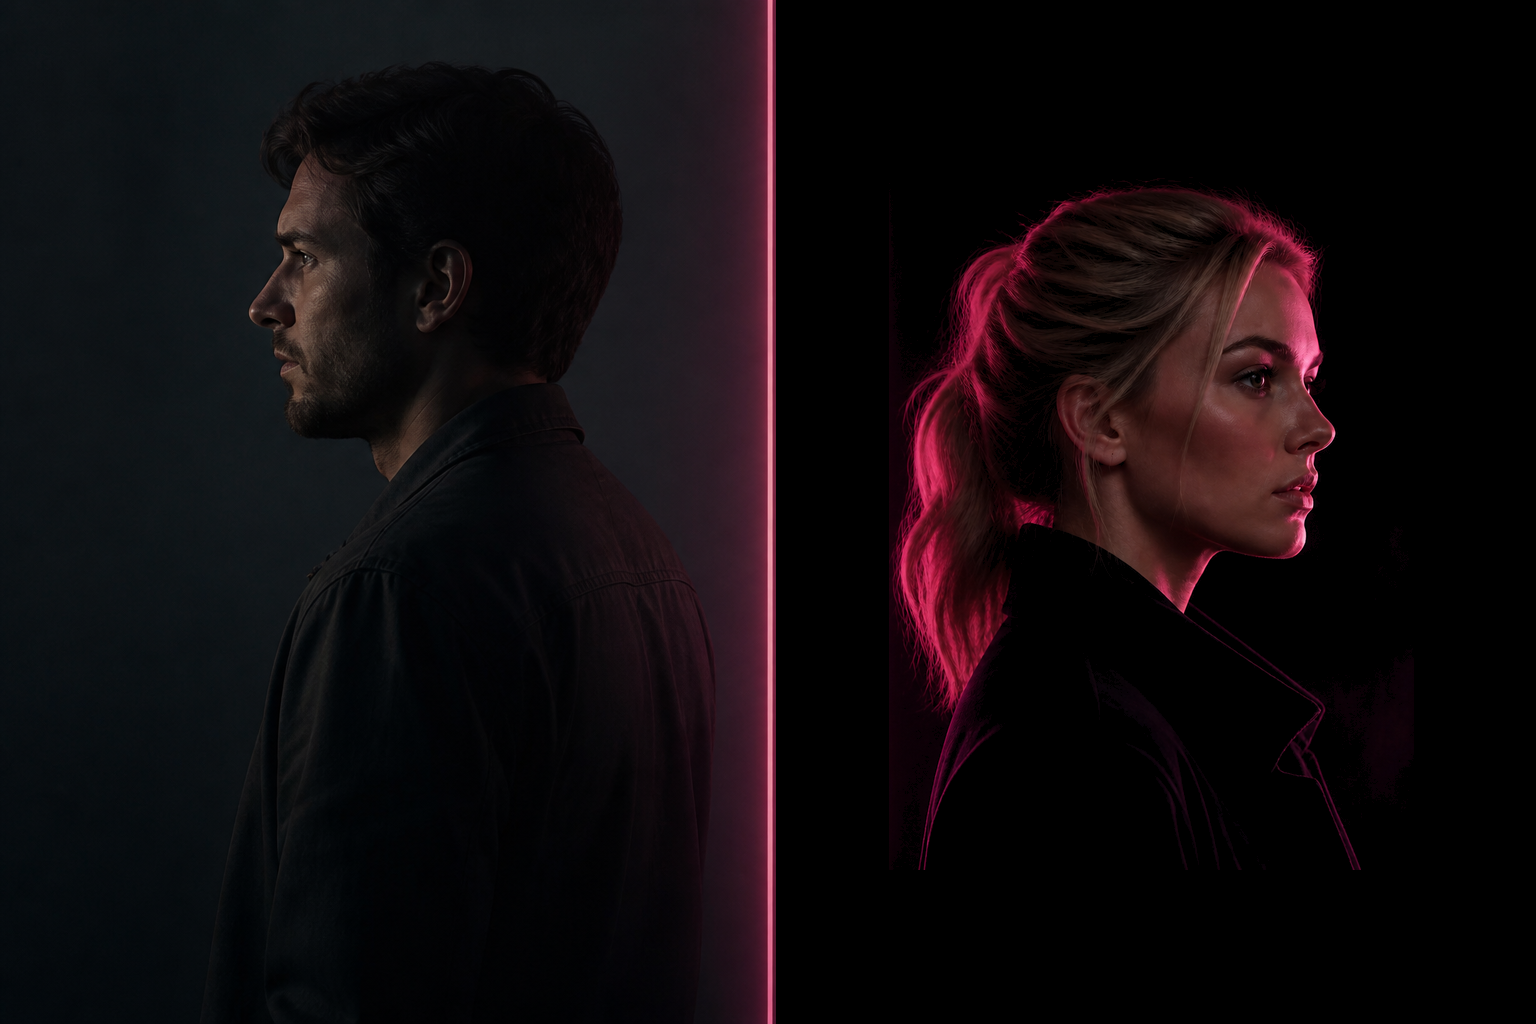
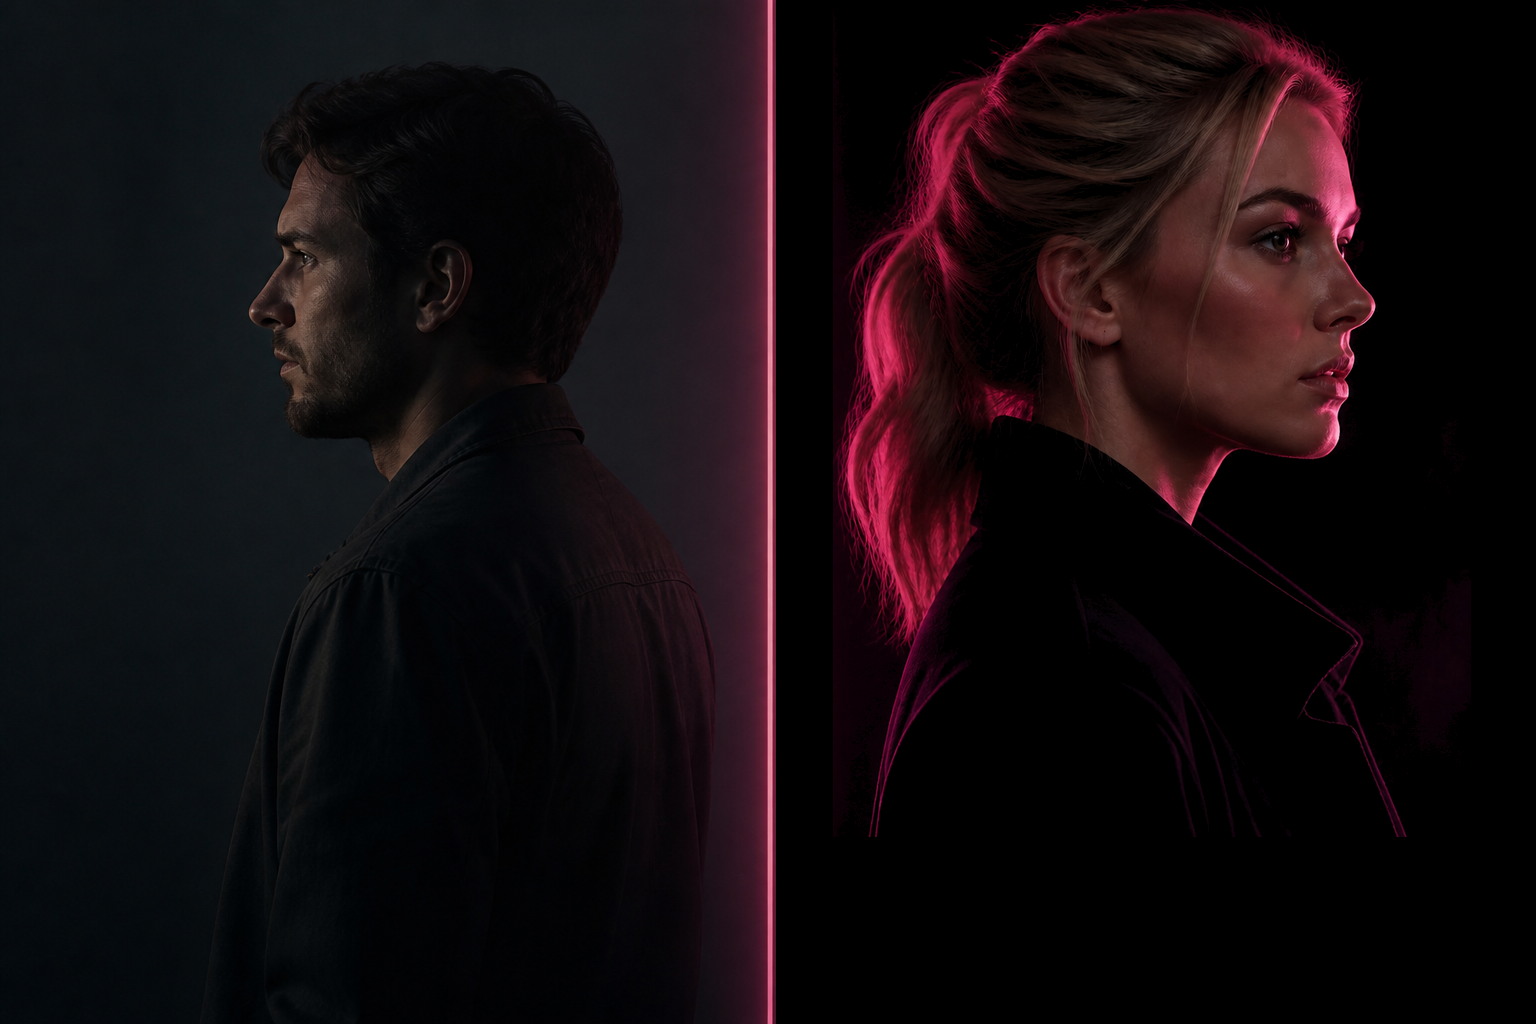
Page 2 dual titles at 85% and taller girl
Who are you / Who do you meet over each half; enlarge only the right figure to match his head height.

diff --git a/index.html b/index.html
@@ -411,9 +411,8 @@
       margin: 0;
       width: auto;
       text-align: center;
-    }
-    #screen2 .title-spacer {
-      display: block;
+      font-size: clamp(12px, 1.7vw, 15.3px);
+      letter-spacing: 0.28em;
     }
 
 
@@ -567,6 +566,10 @@
         letter-spacing: 0.28em;
         margin-bottom: 4px;
       }
+      #screen2 .title-row .screen-title {
+        font-size: 11px;
+        letter-spacing: 0.24em;
+      }
       .world-btn {
         min-height: 44px;
         padding: 14px 8px 14px 12px;
@@ -587,14 +590,14 @@
       <div class="beam" id="beam" aria-hidden="true"></div>
     </div>
 
-        <div id="screen2" aria-label="Who are you">
+        <div id="screen2" aria-label="Who are you / Who do you meet">
       <div class="title-row">
         <h1 class="screen-title">Who are you?</h1>
-        <span class="title-spacer" aria-hidden="true"></span>
+        <h1 class="screen-title">Who do you meet?</h1>
       </div>
       <div class="portrait-wrap">
         <div class="portrait">
-          <img src="assets/split-you-meet.png?v=5" alt="" />
+          <img src="assets/split-you-meet.png?v=6" alt="" />
         </div>
       </div>
 
